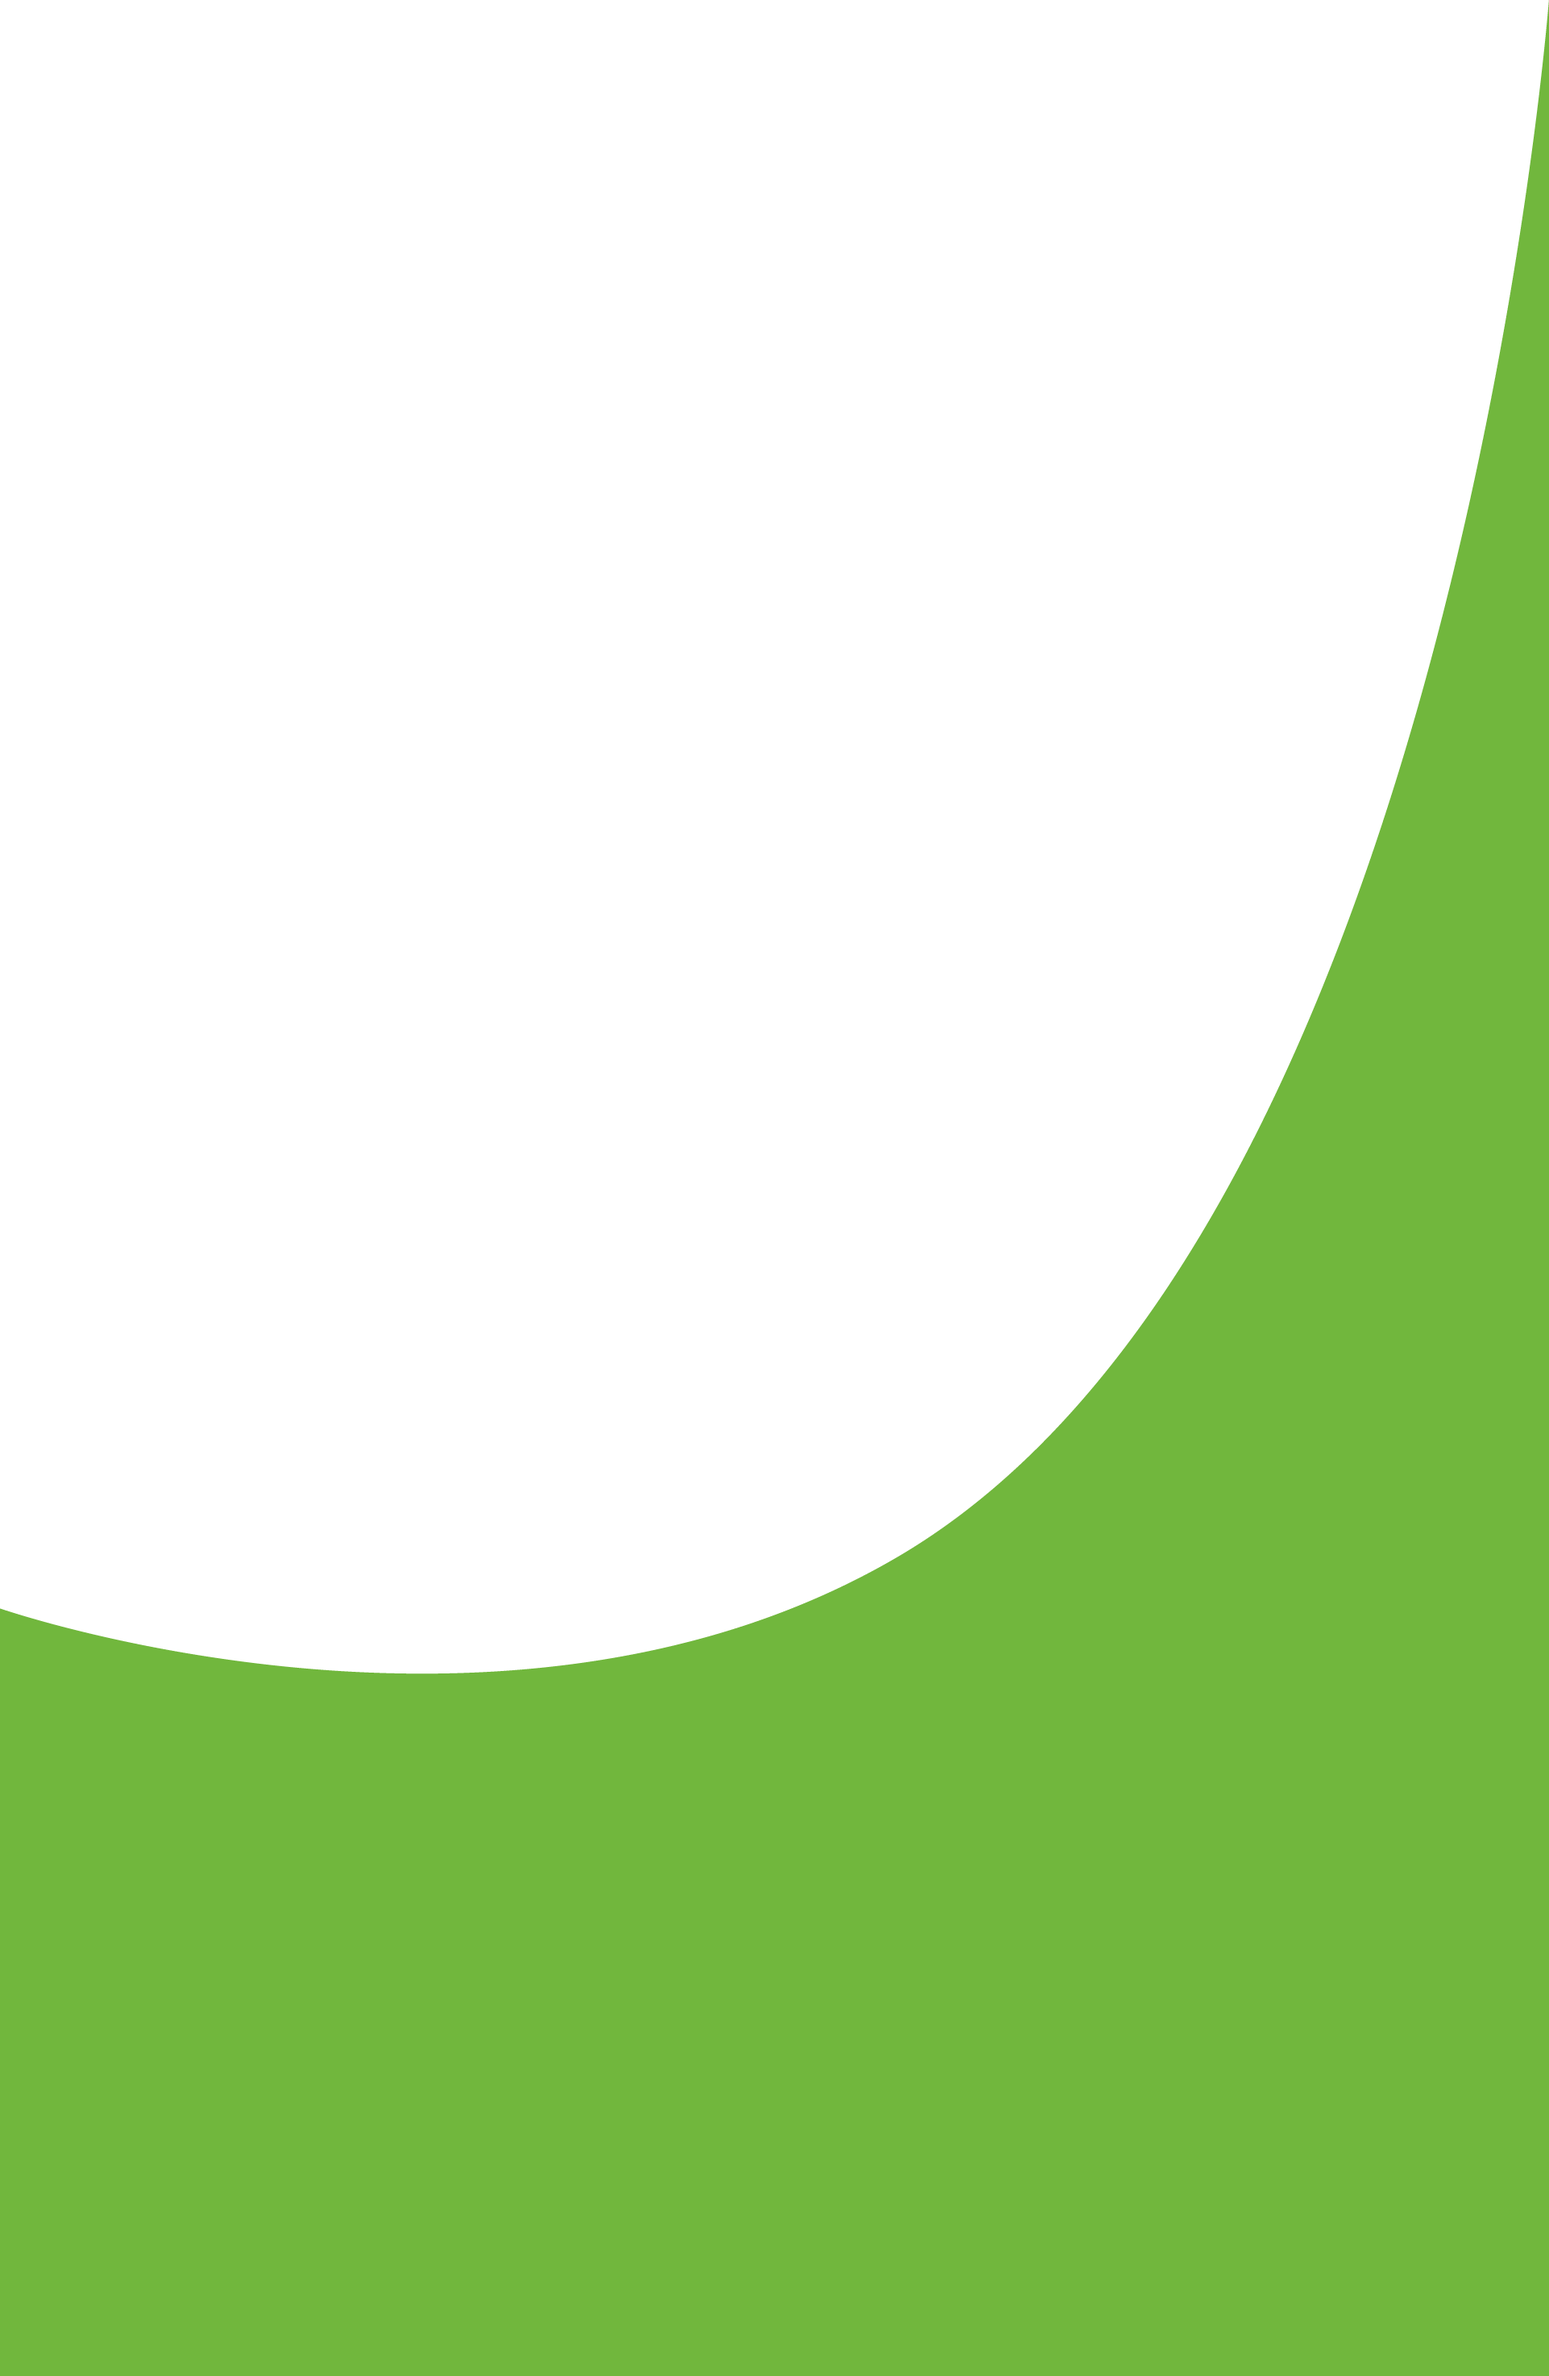
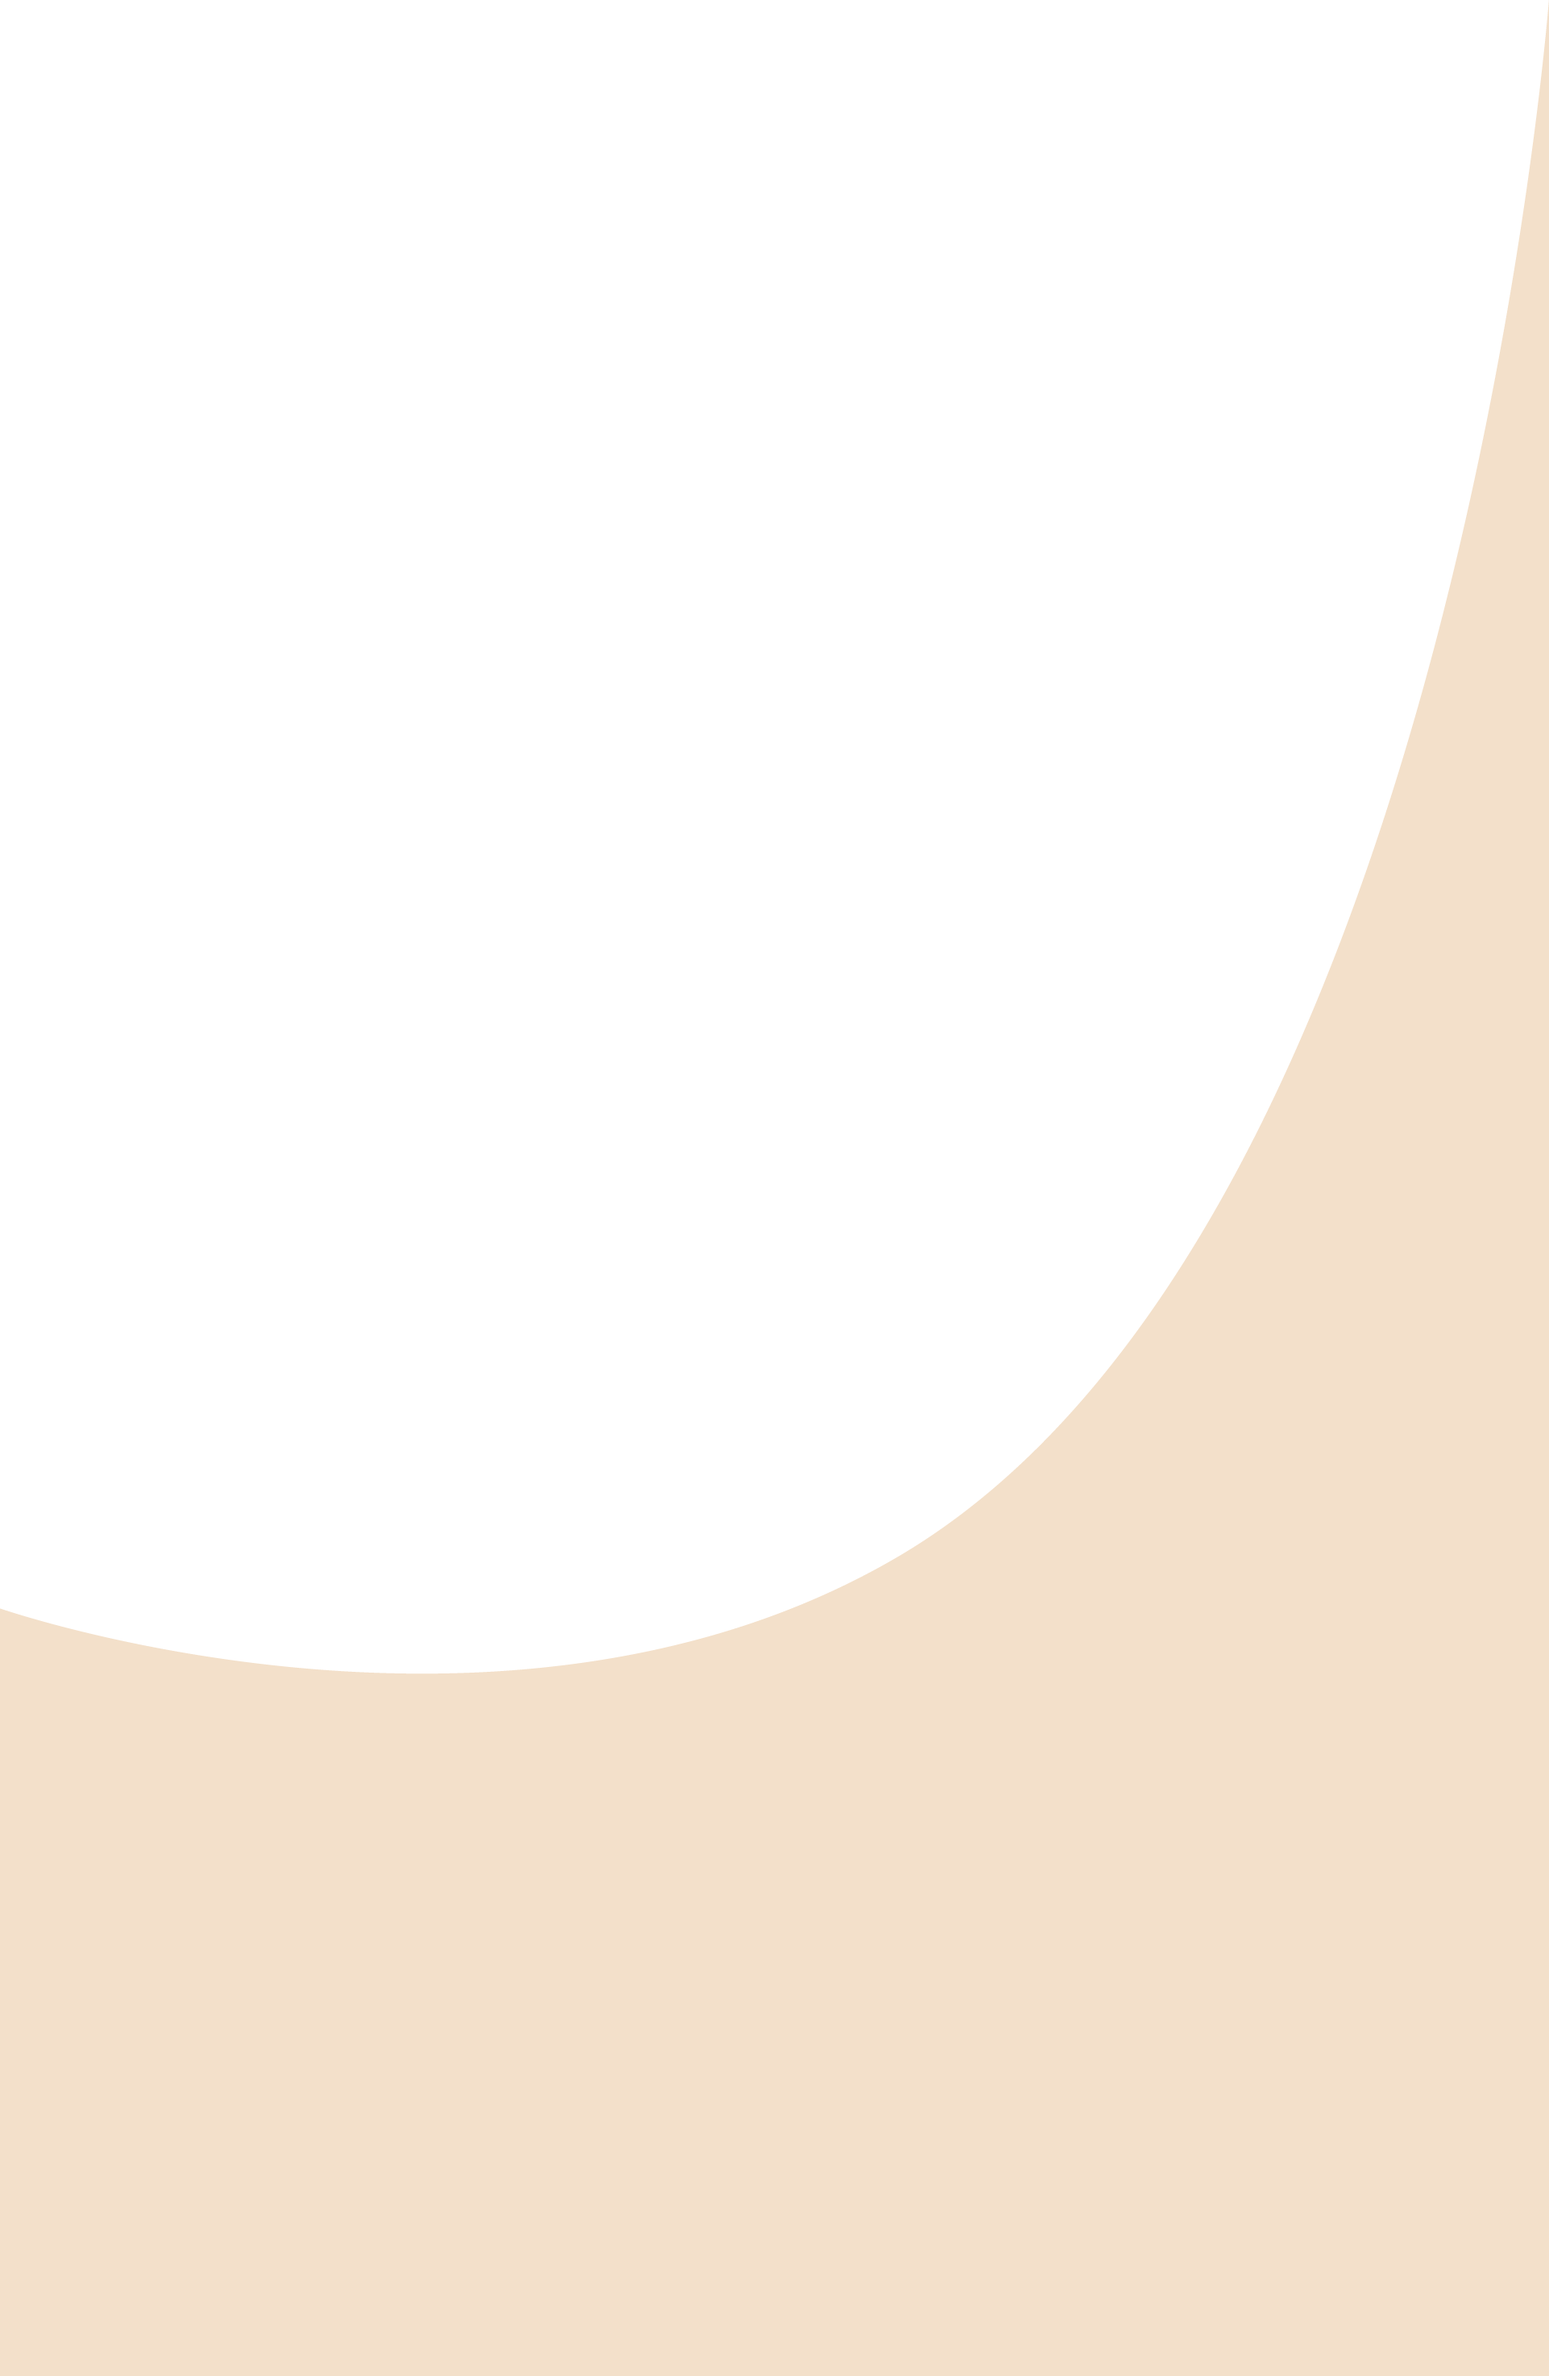
Actualizacion segunda entrega

diff --git a/css/styles-preguntas-frecuentes.css b/css/styles-preguntas-frecuentes.css
@@ -53,7 +53,7 @@ main {
     background-color: white;
     /* padding-top: 350px; */
     position: relative;
-    grid-template-rows: 20% 12% auto 20%;
+    grid-template-rows: 20% 12% 48% 20%;
     grid-template-areas:
         'presentacion'
         'categorias'
@@ -170,7 +170,9 @@ main {
 
 .contenedor-pregunta {
     /* background: #fff; */
-    background:#f5f2f24a;
+    /* background:#f5f2f24a; */
+    background:#f5f2f285;
+  
     padding: 3%;
     border: 2px solid transparent;
     border-radius: 10px;
@@ -185,6 +187,7 @@ main {
 
 .contenedor-pregunta.activa {
     border: 2px solid var(--primario);
+    font-weight: 600;
 }
 
 /*! =================================================*/
@@ -203,7 +206,7 @@ main {
 }
 
 .pregunta {
-    font-weight: 700;
+    /* font-weight: 500;  */
     font-size: 20px;
     line-height: 20px;
     display: flex;
@@ -229,6 +232,7 @@ main {
     transition: .3s ease all;
     align-items: flex-start;
     padding-left: 2%;
+    font-weight: 600;
 }
 
 .contenedor-pregunta.activa .respuesta {
@@ -280,9 +284,14 @@ main {
     justify-items: start;
 }
 .preg-frec-contactos-descripcion{
-    color: white;
+    color: black;
     width: 80%;
     font-size: 20px;
+    /* font-family: 'Roboto'; */
+    font-style: normal;
+    font-weight: 600;
+
+line-height: 30px; 
 }
 
 /***************Boton Contacto*********************/
@@ -305,5 +314,6 @@ main {
 /******************************/
 footer 
 {
-    background-color: #72b93b;
+    background-color: #F4E0CA;
+    
 }   

diff --git a/index.html b/index.html
@@ -687,7 +687,10 @@
                                 <p>
                                     02320-403550
                                 </p>
-
+                                <p>
+                                    +54 9 11 5119 9638
+                                </p>
+                              
                             </div>
 
                         </div>

diff --git a/preguntas-frecuentes.html b/preguntas-frecuentes.html
@@ -347,7 +347,10 @@
                             <p>
                                 02320-403550
                             </p>
-
+                            <p>
+                                +54 9 11 5119 9638
+                            </p>
+                            
                         </div>
 
                     </div>
